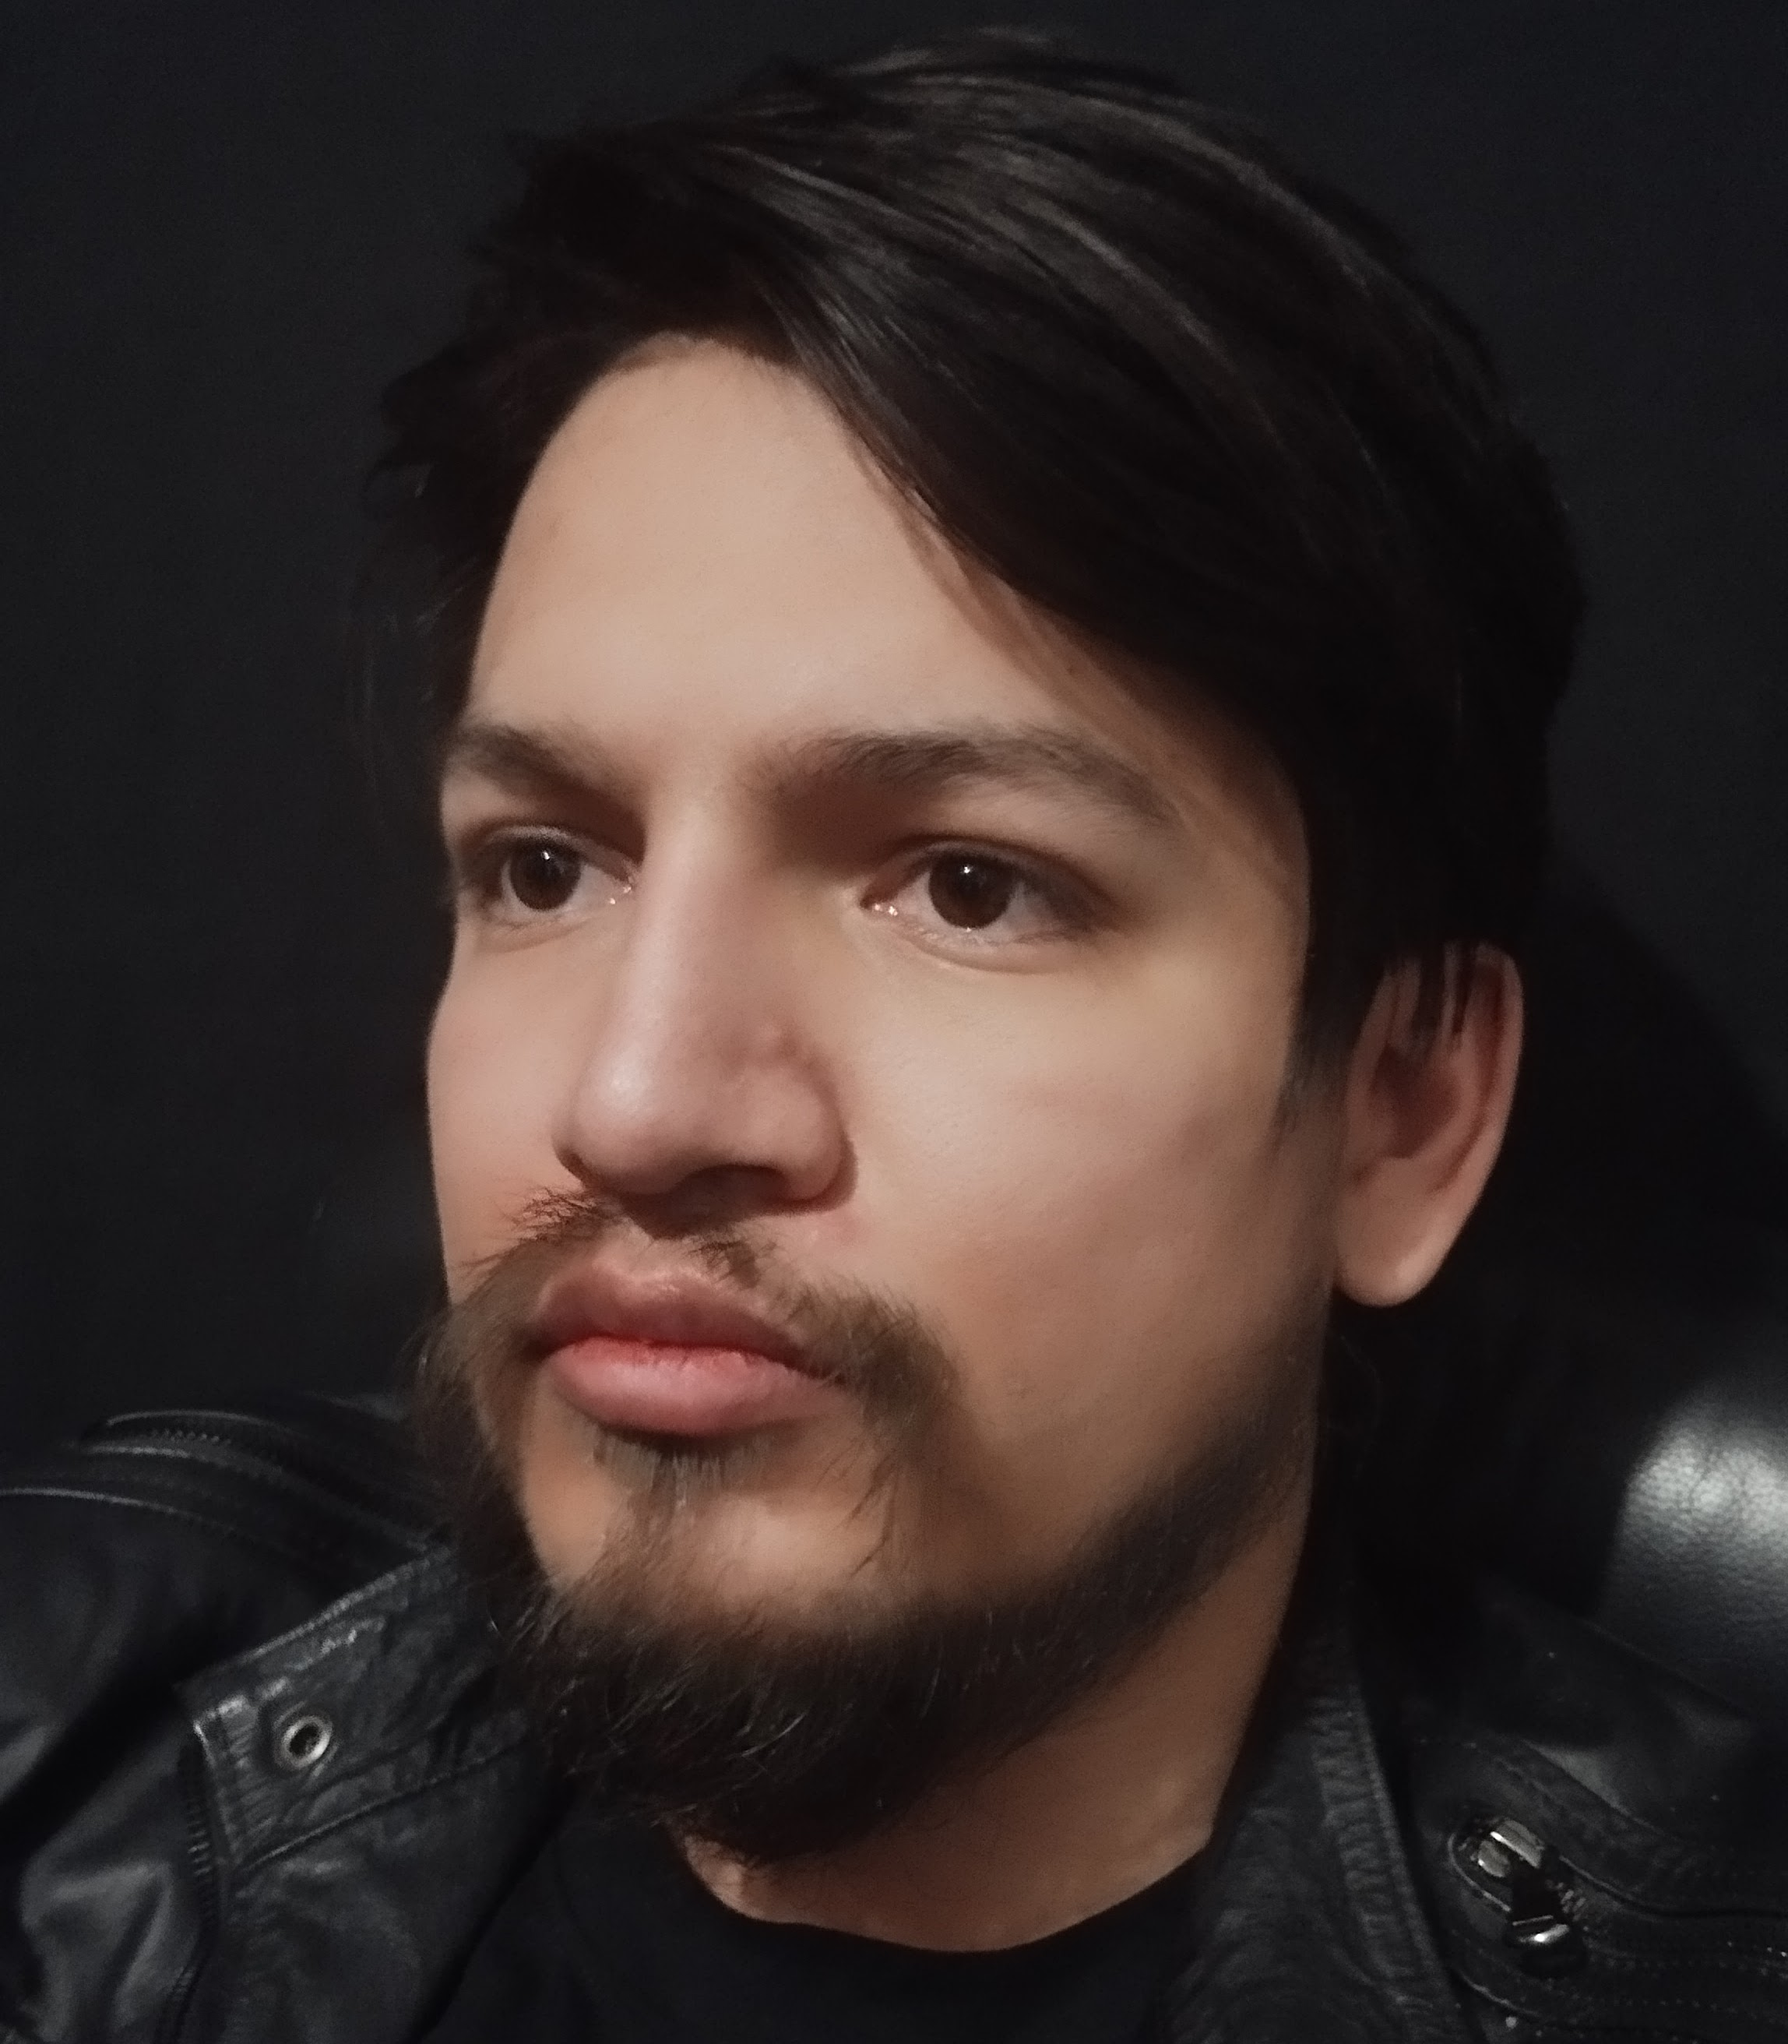
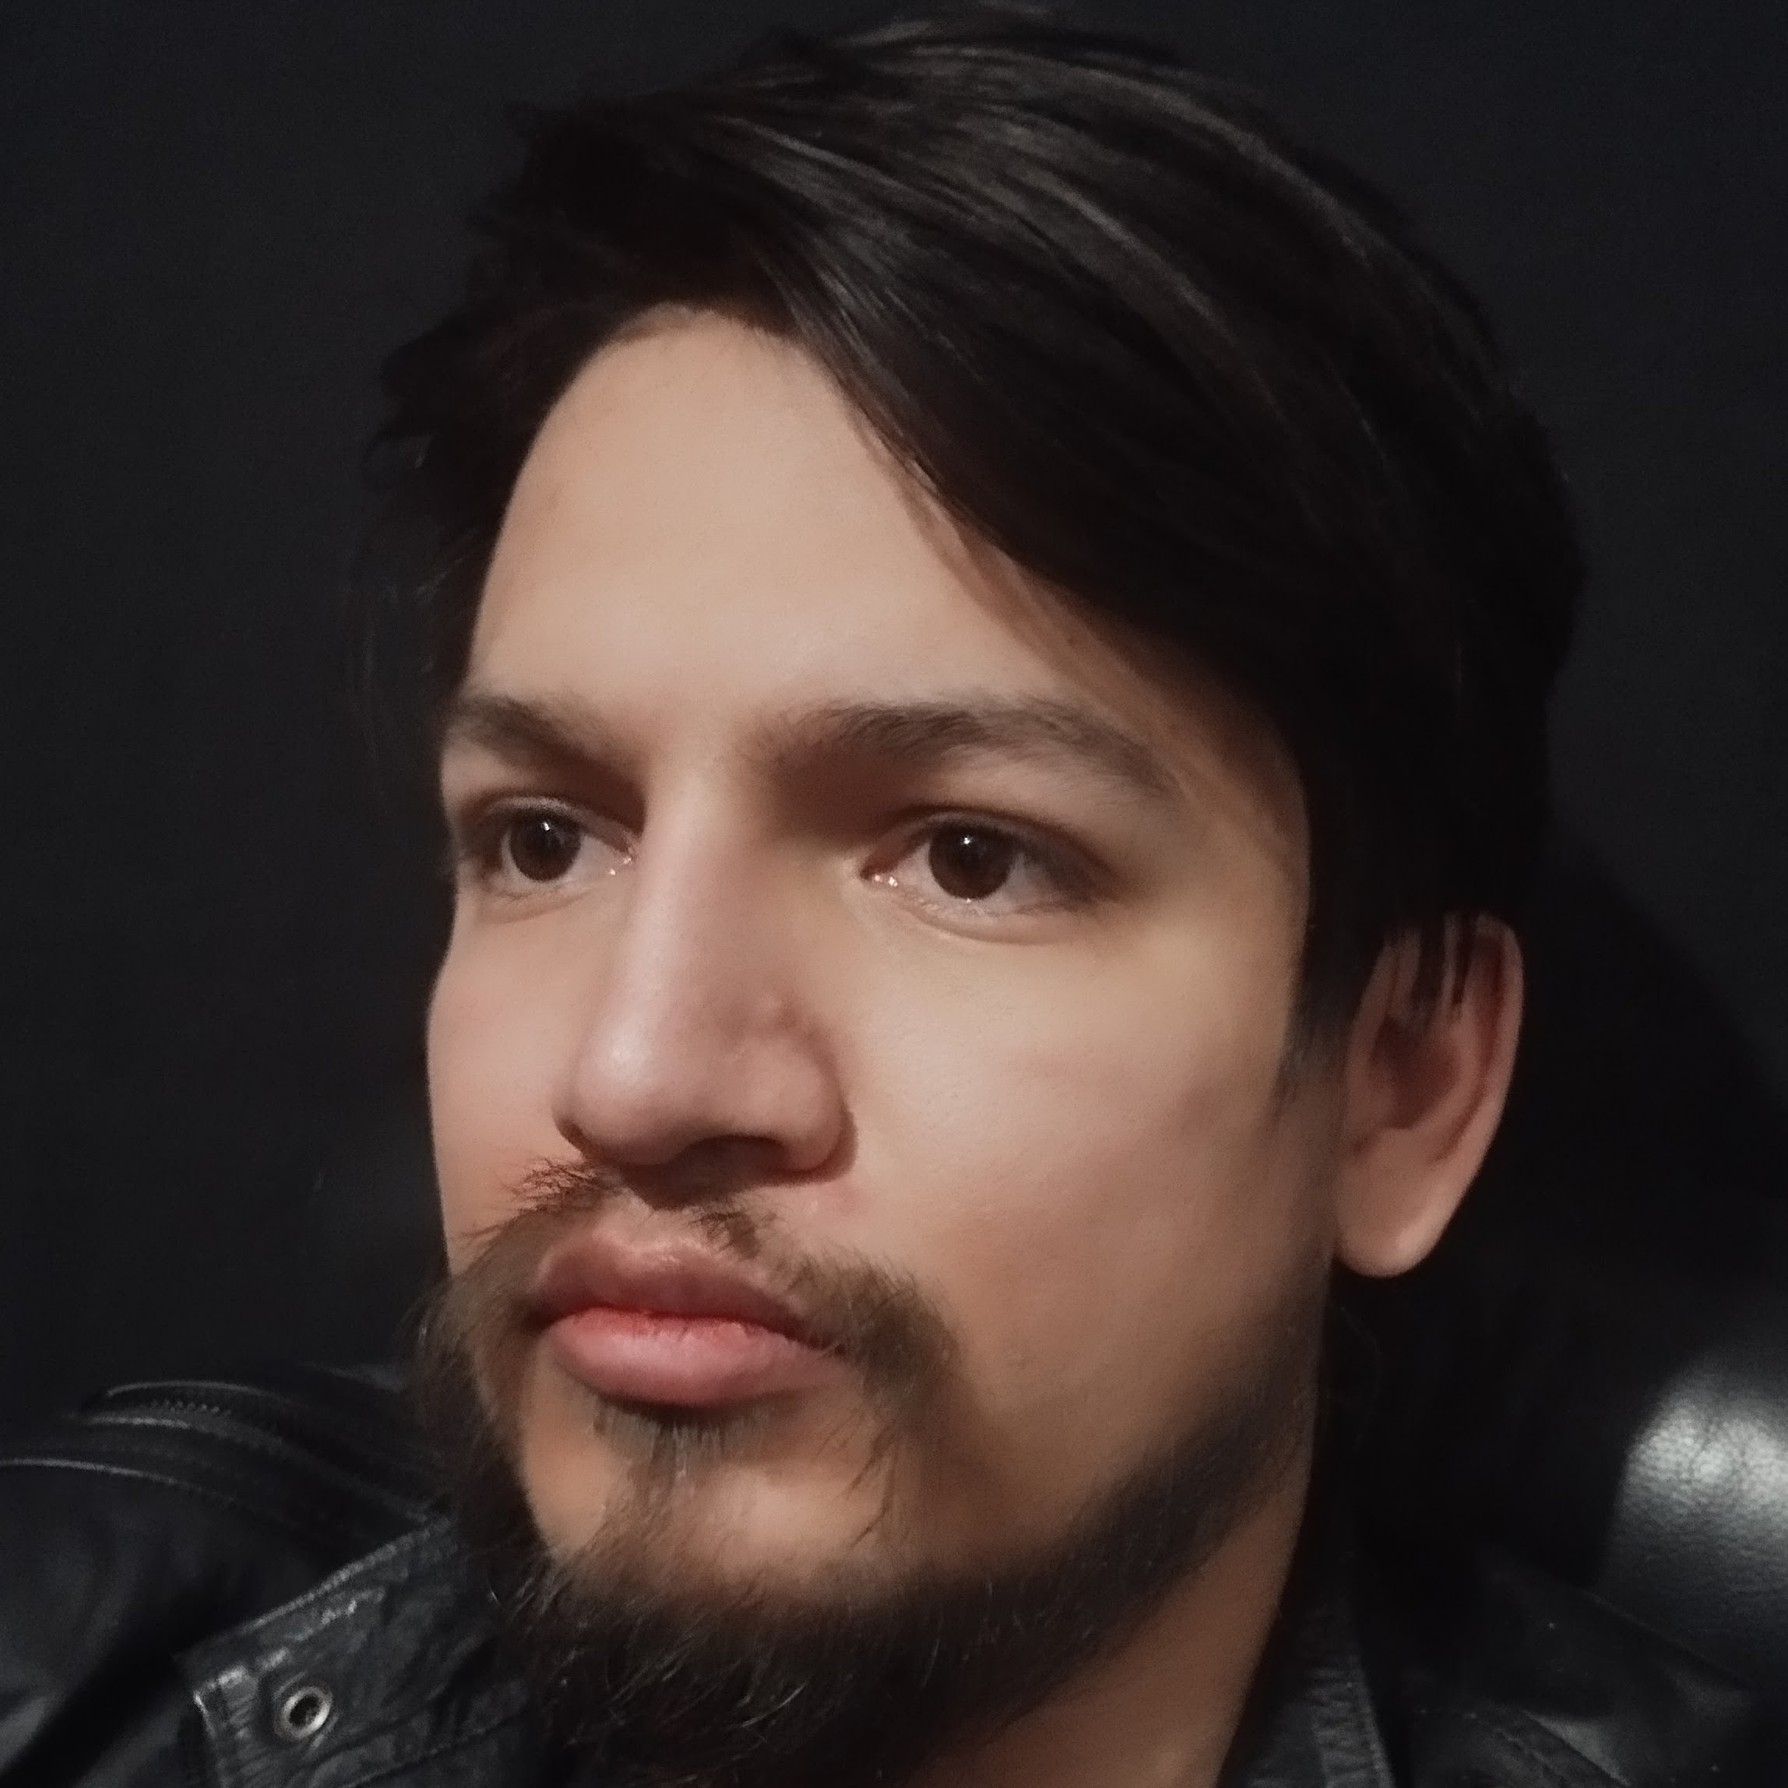
fix: profile picture resized

diff --git a/src/app/page.tsx b/src/app/page.tsx
@@ -86,11 +86,11 @@ export default async function Home() {
     <main>
       <section className="mx-auto mb-16 mt-7 max-w-[683px] px-6 lg:mb-32 lg:px-0">
         <Image
-          width={190}
-          height={190}
+          width={200}
+          height={200}
           src="/images/luisfalconmx.jpg"
           alt="Luis Falcon (luisfalconmx) profile picture"
-          className="mx-auto mb-10 h-[190px] w-[190px] rounded-full shadow-none shadow-black"
+          className="mx-auto mb-10 h-auto w-auto rounded-full shadow-none shadow-black"
           priority={false}
         />
 
